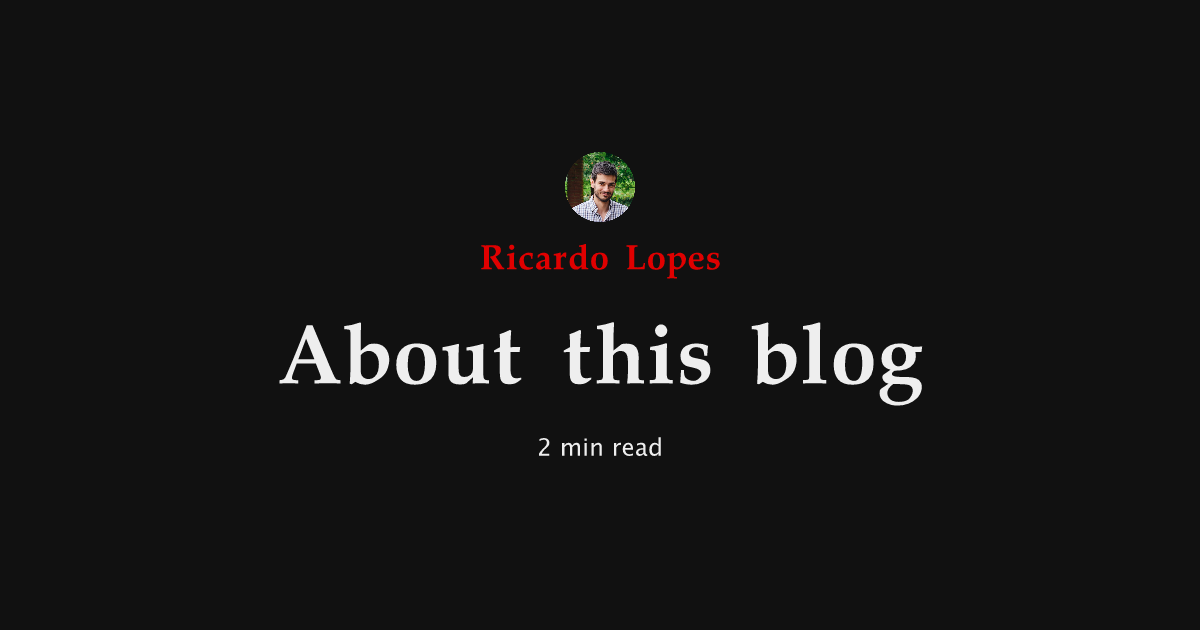
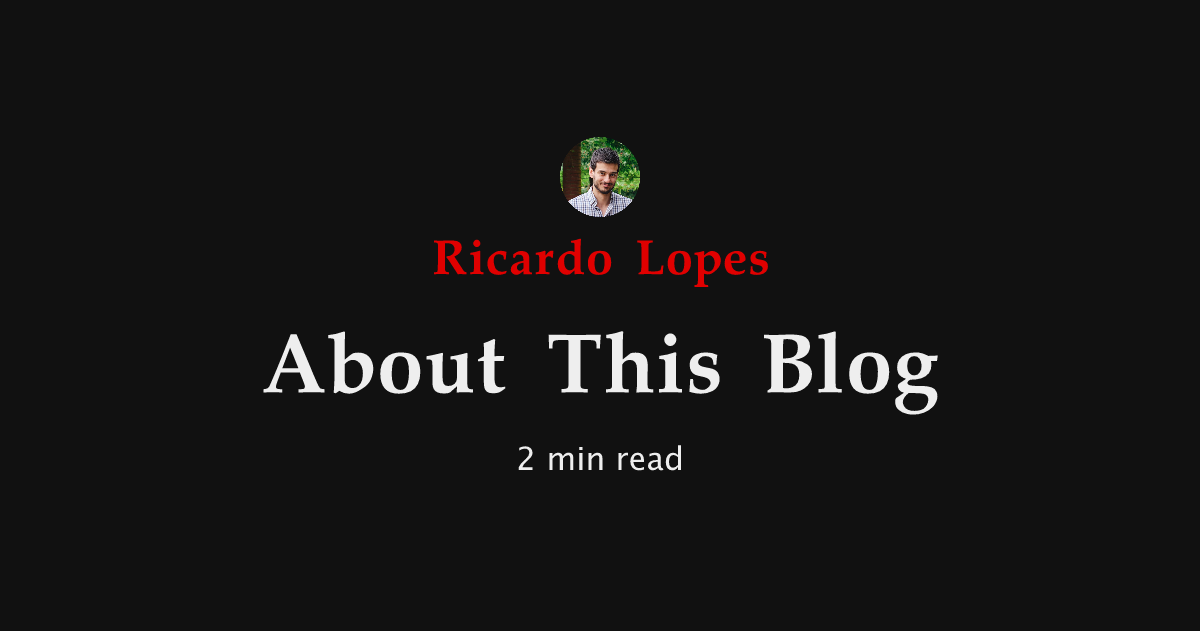
Fix og:images
Make text bigger, tweak the size to what X supports.

diff --git a/blog/being-uplifting/index.html b/blog/being-uplifting/index.html
@@ -28,10 +28,6 @@
     <meta name="twitter:card" content="summary_large_image" />
     <meta name="twitter:site" content="@ricardoplopes" />
     <meta name="twitter:creator" content="@ricardoplopes" />
-    <meta
-      name="twitter:image"
-      content="https://ricardolopes.net/blog/being-uplifting/og.png"
-    />
 
     <meta property="og:site_name" content="Ricardo Lopes" />
     <meta property="og:title" content="Being Uplifting" />
